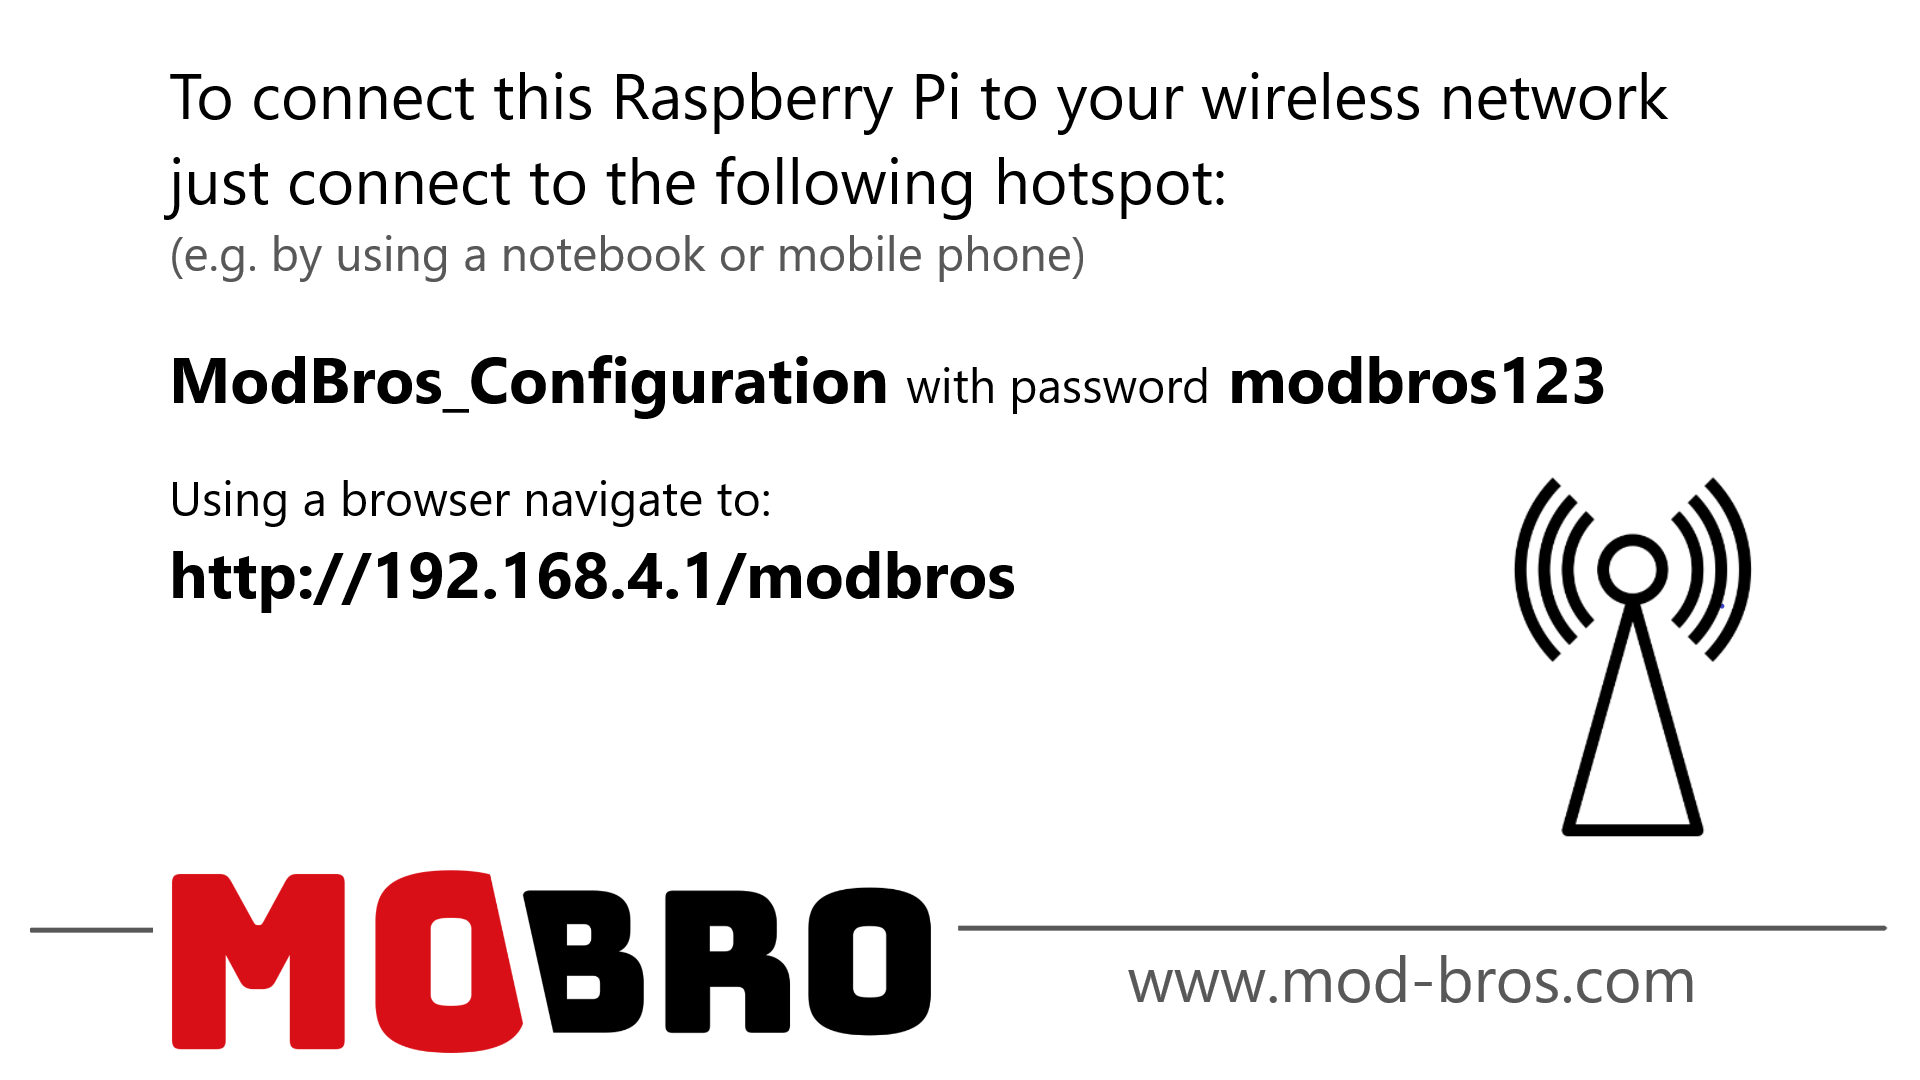
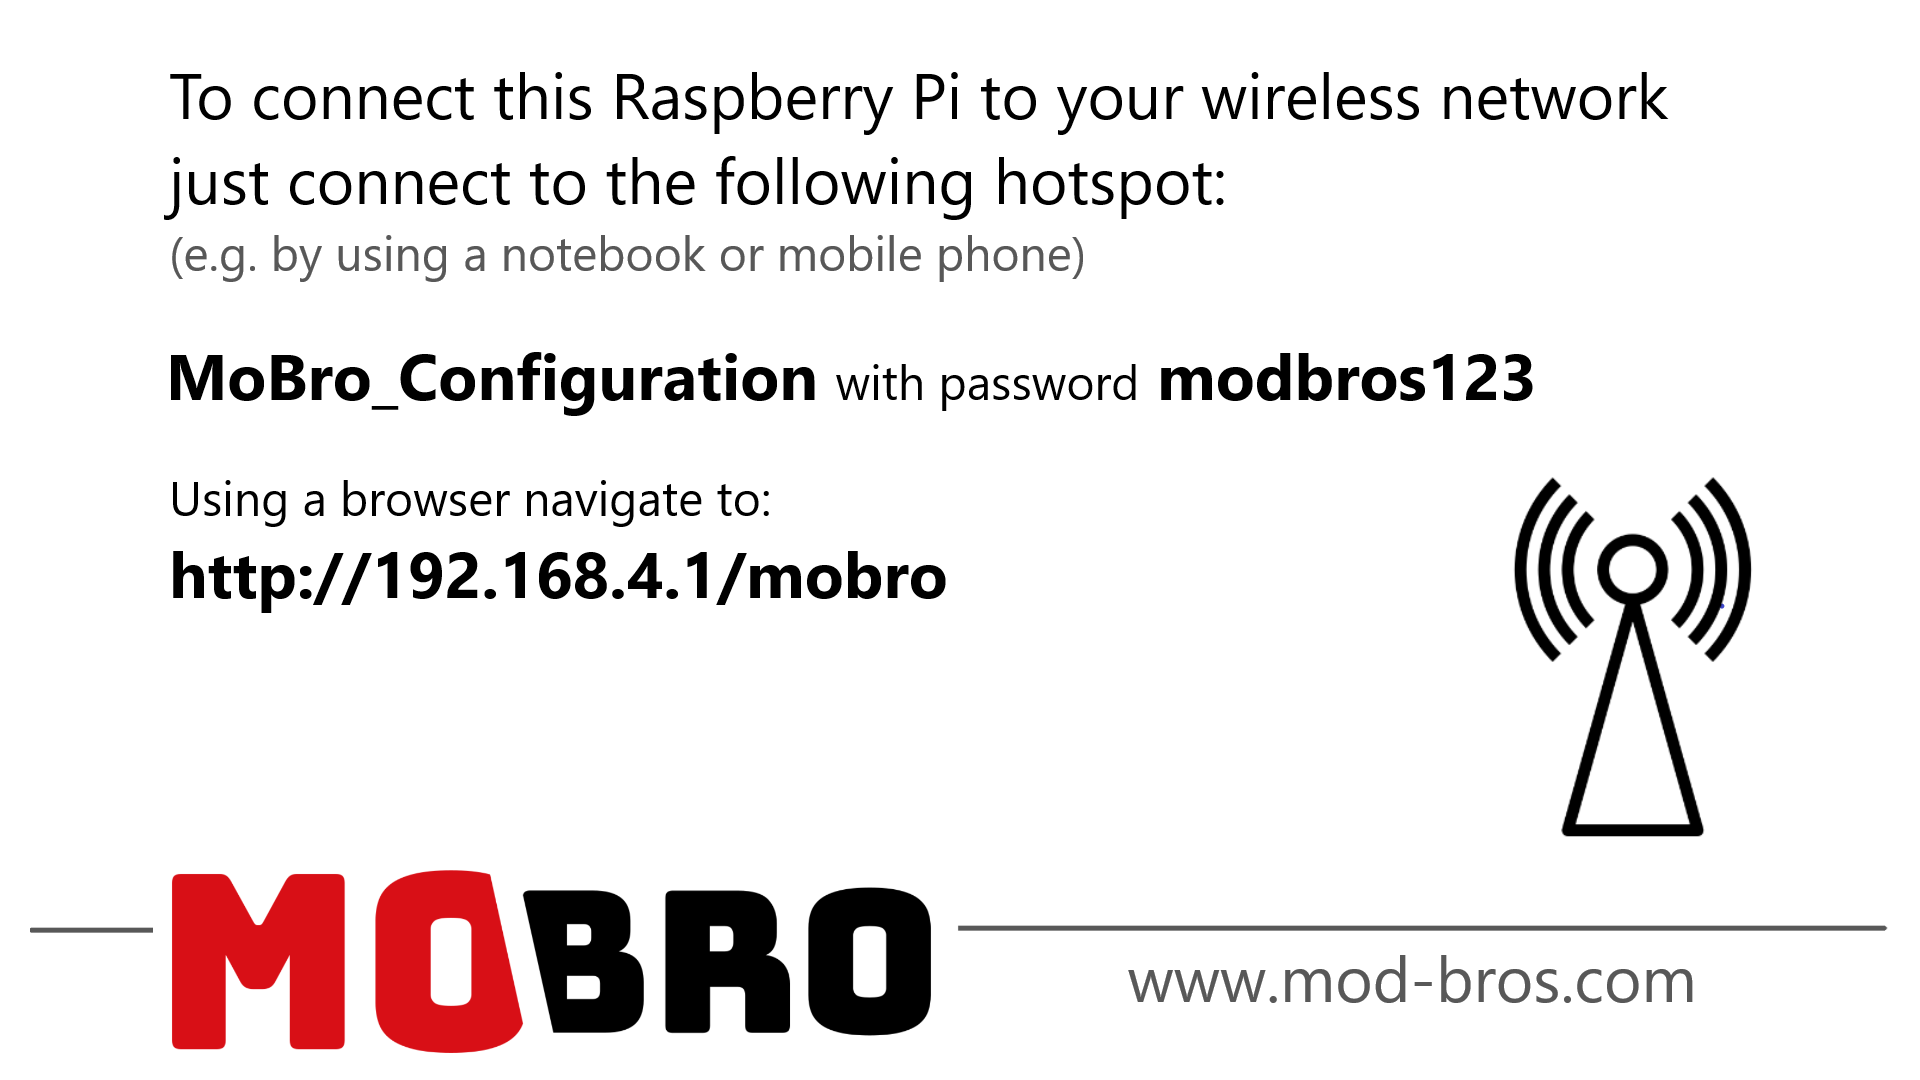
rebranding of config hotspot to MoBro

Changed region(s): [[0.0938, 0.3056, 0.8438, 0.3972], [0.4375, 0.4889, 0.5312, 0.55]]

diff --git a/ModbrosMonitoring/web/index.php b/ModbrosMonitoring/web/index.php
@@ -2,7 +2,7 @@
 <html lang="en">
 <head>
   <meta charset="UTF-8">
-  <meta http-equiv="refresh" content="0; url=/modbros/"/>
+  <meta http-equiv="refresh" content="0; url=/mobro/"/>
   <meta name="viewport" content="width=device-width, initial-scale=1"/>
   <title>ModBros Monitoring Setup</title>
   <link rel="shortcut icon" href="./resources/favicon.ico" type="image/x-icon"/>
@@ -21,7 +21,7 @@ include 'constants.php';
 
 <body>
 <div id="container" class="container">
-  <p class="mt-3 alert alert-info font-weight-bold">If not automatically redirected please <a href="./modbros/index.php">click here</a>.</p>
+  <p class="mt-3 alert alert-info font-weight-bold">If not automatically redirected please <a href="mobro/index.php">click here</a>.</p>
   <?php include './includes/footer.php' ?>
 </div>
 </body>
